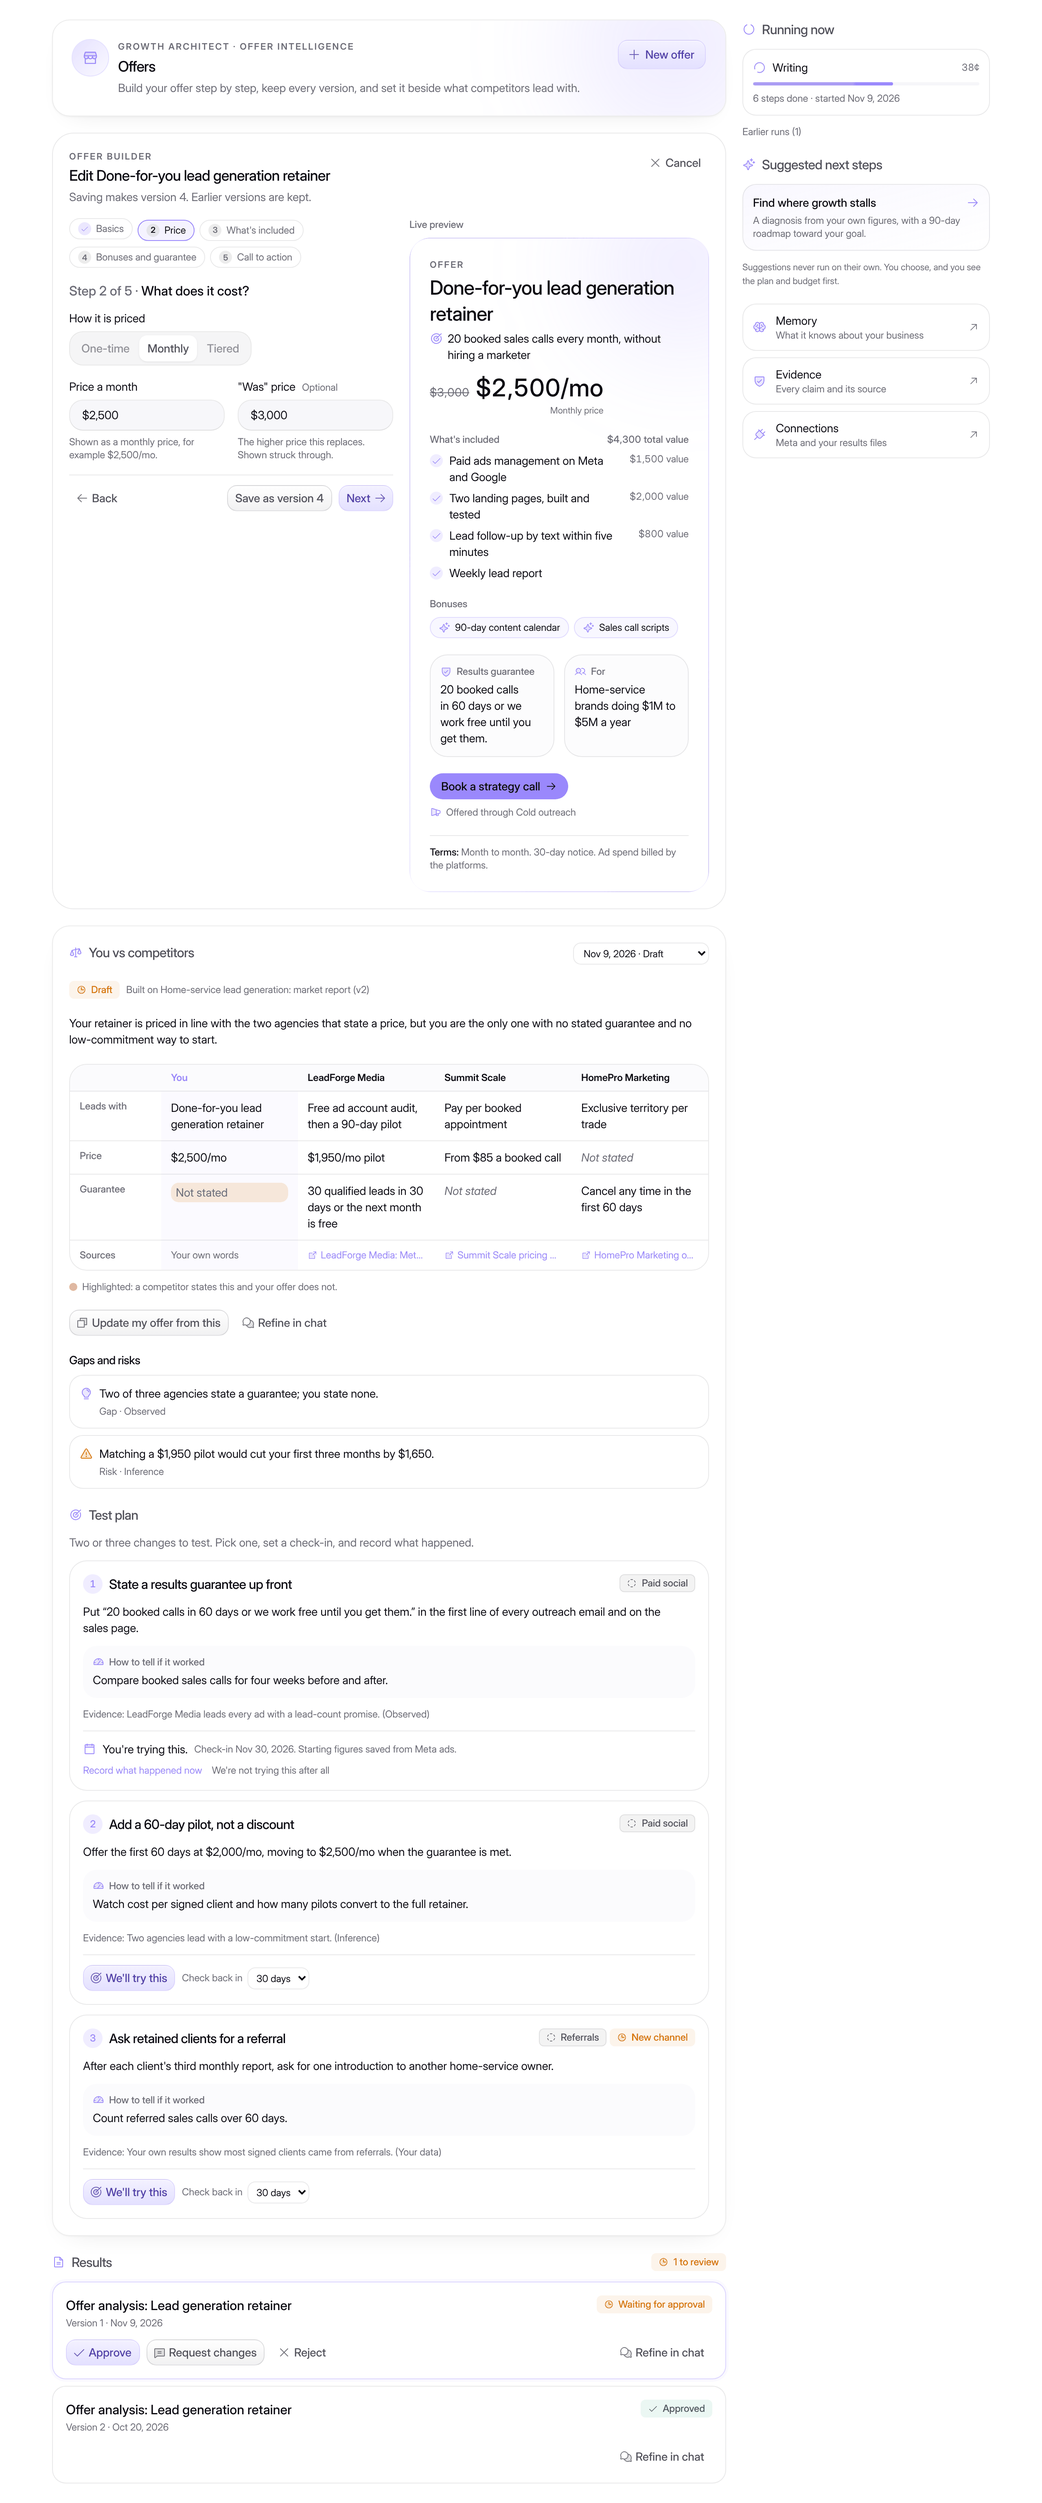
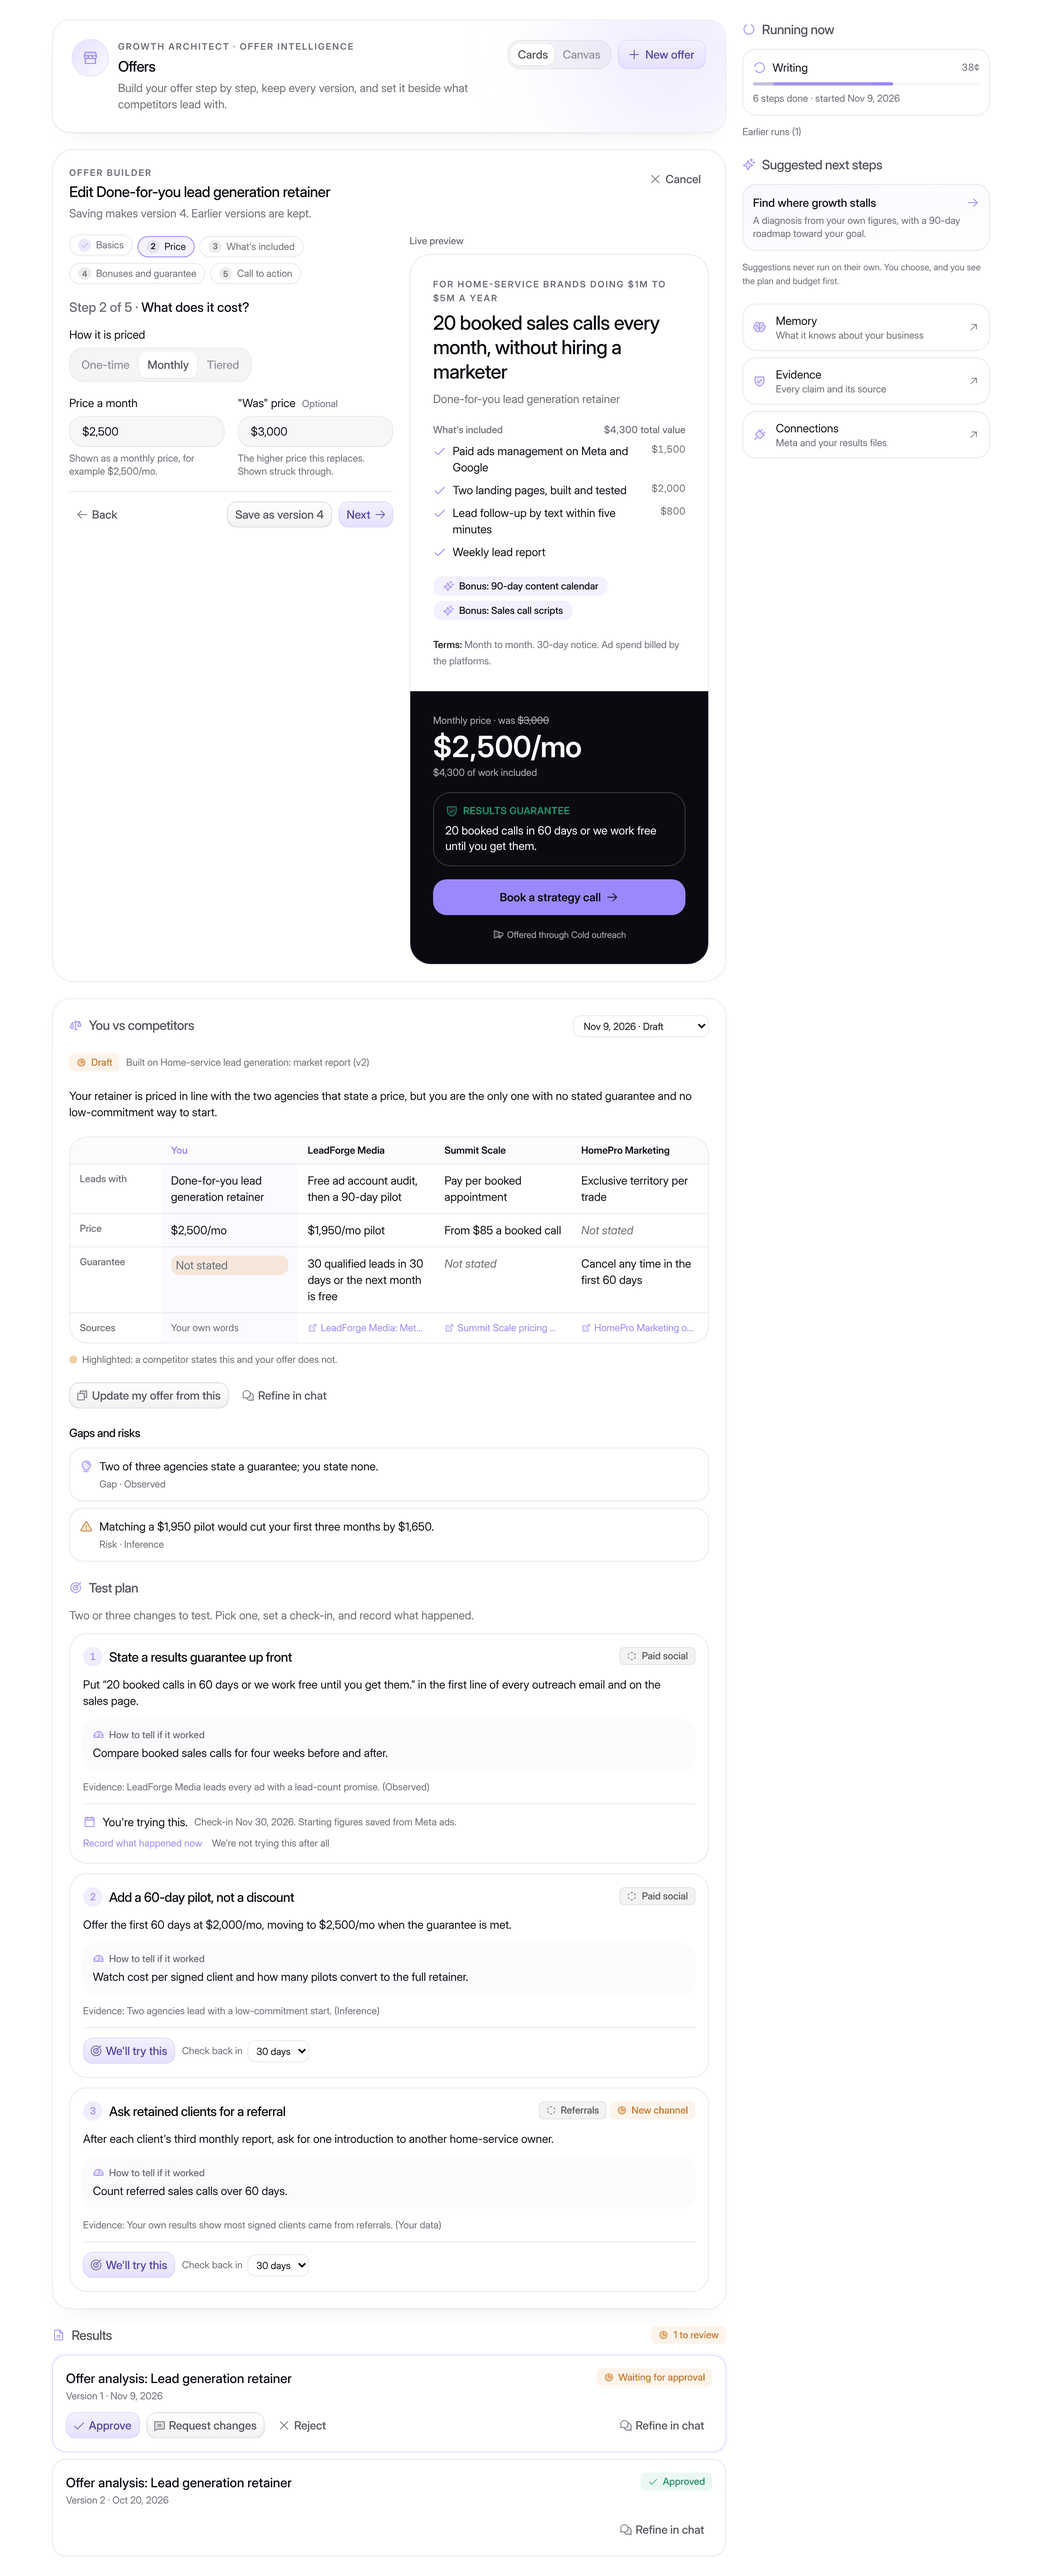
Price panel and board cards on theme tokens; refreshed screenshots
The offer card's price panel and the board's dark cards now take their
colours from the theme tokens (no hard-coded white). Screenshots of
Offers, the offer builder and Diagnostics are retaken with the new card
and roadmap, and the two Canvas views are added.

Claude-Session: https://claude.ai/code/session_01BiDhVKxocb5NjSyLdJBgWr

diff --git a/src/components/work/offer-card.tsx b/src/components/work/offer-card.tsx
@@ -77,10 +77,10 @@ export const OfferCardView = forwardRef<HTMLDivElement, { offer: OfferContent; v
             <span className="font-medium text-card-foreground">Terms:</span> {offer.terms || "Not stated"}
           </p>
         </div>
-        {/* The price panel: dark on a light page, raised on a dark one, so the price is the loudest thing either way. */}
-        <div className="grid content-start gap-4 bg-[#0b0a11] p-5 text-white sm:p-7 dark:bg-white/[0.06]">
+        {/* The price panel, in theme tokens: the card's ink as its ground on a light page, a raised surface on a dark one. */}
+        <div className="grid content-start gap-4 bg-card-foreground p-5 text-card sm:p-7 dark:bg-muted dark:text-card-foreground">
           <div className="grid gap-1.5">
-            <p className="text-xs text-white/70">
+            <p className="text-xs opacity-70">
               {pricing ? `${PRICE_KIND_WORDS[pricing.kind]} price` : "Price"}
               {pricing?.was ? (
                 <>
@@ -92,31 +92,31 @@ export const OfferCardView = forwardRef<HTMLDivElement, { offer: OfferContent; v
             {tiered ? (
               <ul className="grid gap-1.5">
                 {pricing.tiers.map((tier) => (
-                  <li key={`${tier.name}-${tier.price}`} className="flex items-baseline justify-between gap-4 border-b border-white/15 pb-1.5 last:border-0">
-                    <span className="min-w-0 text-sm break-words text-white/80">{tier.name}</span>
+                  <li key={`${tier.name}-${tier.price}`} className="flex items-baseline justify-between gap-4 border-b border-current/15 pb-1.5 last:border-0">
+                    <span className="min-w-0 text-sm break-words opacity-80">{tier.name}</span>
                     <span className="font-heading text-xl tabular-nums">{tier.price}</span>
                   </li>
                 ))}
               </ul>
             ) : (
-              <p className="font-heading text-4xl leading-none font-semibold tracking-tight break-words tabular-nums @xl:text-5xl">{offer.price || <span className="text-2xl text-white/60 italic">{draft ? "Price" : "Not stated"}</span>}</p>
+              <p className="font-heading text-4xl leading-none font-semibold tracking-tight break-words tabular-nums @xl:text-5xl">{offer.price || <span className="text-2xl opacity-60 italic">{draft ? "Price" : "Not stated"}</span>}</p>
             )}
-            {total ? <p className="text-xs text-white/70">{total} of work included</p> : null}
+            {total ? <p className="text-xs opacity-70">{total} of work included</p> : null}
           </div>
-          <div className="grid gap-1.5 rounded-2xl border border-white/20 p-3.5">
-            <p className="flex items-center gap-1.5 text-xs font-semibold tracking-wide text-emerald-300 uppercase">
+          <div className="grid gap-1.5 rounded-2xl border border-current/20 p-3.5">
+            <p className="flex items-center gap-1.5 text-xs font-semibold tracking-wide text-success uppercase">
               <ShieldCheck aria-hidden className="size-4" /> {offer.guaranteeType ? GUARANTEE_WORDS[offer.guaranteeType] : "Guarantee"}
             </p>
-            <p className="text-sm leading-snug break-words">{offer.guaranteeType === "none" ? "None offered." : offer.guarantee || <span className="text-white/60 italic">Not stated</span>}</p>
+            <p className="text-sm leading-snug break-words">{offer.guaranteeType === "none" ? "None offered." : offer.guarantee || <span className="opacity-60 italic">Not stated</span>}</p>
           </div>
           {offer.cta ? (
             <span className="mt-auto flex min-h-11 items-center justify-center gap-1.5 rounded-xl bg-primary px-4 py-2 text-center text-sm font-semibold text-primary-foreground">
               <span className="min-w-0 break-words">{offer.cta}</span> <ArrowRight aria-hidden className="size-4 shrink-0" />
             </span>
           ) : draft ? (
-            <span className="mt-auto flex min-h-11 items-center justify-center rounded-xl border border-dashed border-white/30 px-4 text-sm text-white/60 italic">Call to action</span>
+            <span className="mt-auto flex min-h-11 items-center justify-center rounded-xl border border-dashed border-current/30 px-4 text-sm opacity-60 italic">Call to action</span>
           ) : null}
-          <p className="flex flex-wrap items-center justify-center gap-x-1.5 text-center text-[11px] text-white/70">
+          <p className="flex flex-wrap items-center justify-center gap-x-1.5 text-center text-[11px] opacity-70">
             {offer.channel ? (
               <span className="inline-flex min-w-0 items-center gap-1">
                 <Megaphone aria-hidden className="size-3.5 shrink-0" /> <span className="break-words">Offered through {offer.channel}</span>

diff --git a/src/components/work/work-canvases.tsx b/src/components/work/work-canvases.tsx
@@ -137,9 +137,9 @@ export function OffersCanvas({ card, analysis, decisions, tryActions, editor }: 
 }
 
 const PHASE_WORDS: Record<string, { name: string; weeks: string; tone: string; days: number }> = {
-  fix: { name: "Fix", weeks: "Weeks 1–4", tone: "bg-[#0b0a11] text-white dark:bg-white dark:text-[#0b0a11]", days: 30 },
+  fix: { name: "Fix", weeks: "Weeks 1–4", tone: "bg-card-foreground text-card", days: 30 },
   build: { name: "Build", weeks: "Weeks 5–8", tone: "bg-primary text-primary-foreground", days: 60 },
-  scale: { name: "Scale", weeks: "Weeks 9–12", tone: "bg-success text-white", days: 90 },
+  scale: { name: "Scale", weeks: "Weeks 9–12", tone: "bg-success-foreground text-card", days: 90 },
 };
 
 const STAGE_WORDS: Record<string, string> = { reach: "Reach", clicks: "Clicks", leads: "Leads or booked calls", revenue: "Revenue", unknown: "Not enough data" };

diff --git a/src/components/work/board-canvas.tsx b/src/components/work/board-canvas.tsx
@@ -222,7 +222,7 @@ export function BoardCard({ tone = "plain", className, children }: { tone?: "pla
     plain: "border-border bg-card",
     accent: "border-primary/40 bg-primary/[0.09]",
     current: "border-2 border-primary bg-card shadow-lg shadow-primary/10",
-    dark: "border-transparent bg-[#0b0a11] text-white dark:bg-white dark:text-[#0b0a11]",
+    dark: "border-transparent bg-card-foreground text-card",
     warning: "border-warning/50 bg-warning/[0.08]",
   } as const;
   return <div className={cn("grid h-full w-full content-start gap-1.5 overflow-hidden rounded-xl border p-3.5 text-left", tones[tone], className)}>{children}</div>;
